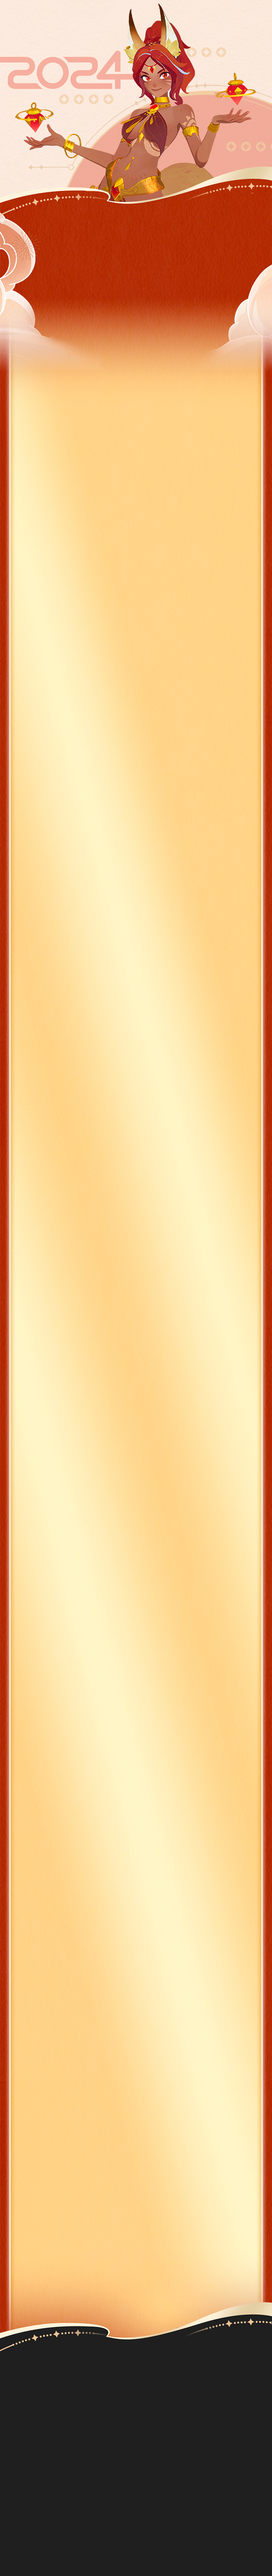
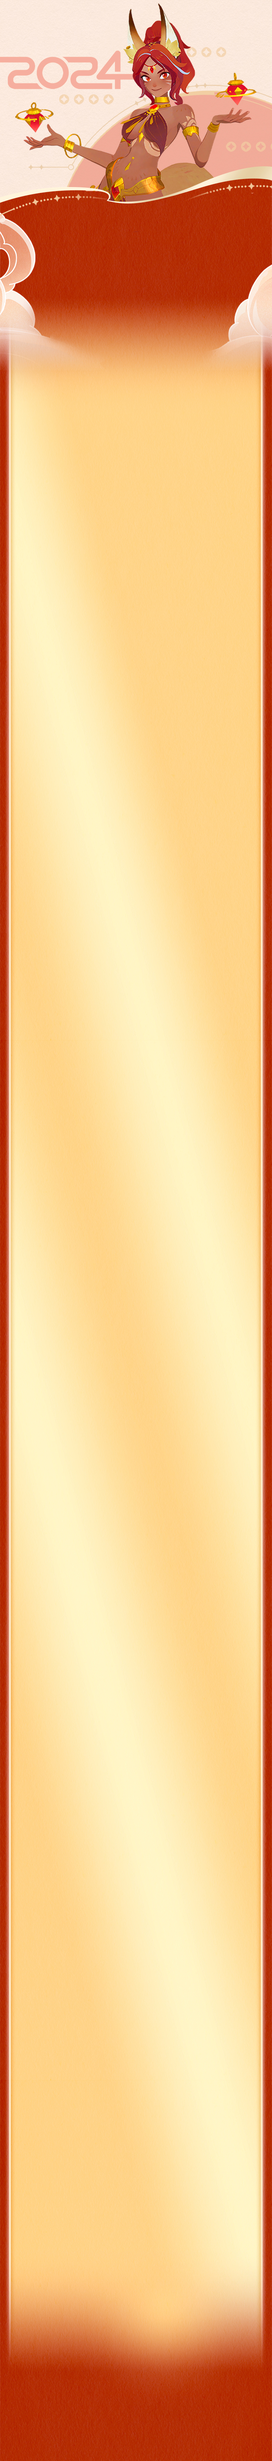
提交

diff --git a/src/views/m/index/index.vue b/src/views/m/index/index.vue
@@ -253,23 +253,23 @@ const inviteNow = () => {
 		</div>
 		
 		<!-- 登录弹窗 -->
-		<van-dialog width="67%" v-model:show="showLogin" :showConfirmButton="false">
+		<van-dialog :width="510" v-model:show="showLogin" :showConfirmButton="false">
 			<LoginDialog @closePop="closeLoginPop"></LoginDialog>
 		</van-dialog>
 		<!-- 扫码弹窗 -->
-		<van-dialog width="67%" v-model:show="showScan" :showConfirmButton="false">
+		<van-dialog width="510" v-model:show="showScan" :showConfirmButton="false">
 			<ScanDialog @closePop="closeScanPop"></ScanDialog>
 		</van-dialog>
 		<!-- 活动温馨提示 -->
-		<van-dialog width="67%" v-model:show="showTip" :showConfirmButton="false">
+		<van-dialog width="510" v-model:show="showTip" :showConfirmButton="false">
 			<TipDialog @closePop="closeTipPop"></TipDialog>
 		</van-dialog>
 		<!-- 活动结束 -->
-		<van-dialog width="67%" v-model:show="showEnd" :showConfirmButton="false">
+		<van-dialog width="510" v-model:show="showEnd" :showConfirmButton="false">
 			<EndDialog @closePop="closeEndPop"></EndDialog>
 		</van-dialog>
 		<!-- 获得红包封面 -->
-		<van-dialog width="67%" v-model:show="showRedEnvelope" :showConfirmButton="false">
+		<van-dialog width="510" v-model:show="showRedEnvelope" :showConfirmButton="false">
 			<RedEnvelopeDialog @closePop="closeRedEnvelopePop"></RedEnvelopeDialog>
 		</van-dialog>
 	</div>

diff --git a/src/components/Footer.vue b/src/components/Footer.vue
@@ -26,7 +26,7 @@ const list = [{
 
 <template>
     <div class="footer">
-        <div class="logo">
+		<div class="logo">
 			<img :src="LilisiLogo" alt="logo">
 		</div>
 		<div class="footer-container">
@@ -57,8 +57,14 @@ const list = [{
 	align-items: center;
 	color: #fff;
 	font-size: .14rem;
+	background: url('@/assets/img/footer-bg.png') no-repeat;
+	background-size: 100% auto;
+	background-position: 0 0;
+	padding-bottom: .2rem;
 	.logo {
 		width: 33%;
+		margin: 1.6rem auto;
+		margin-bottom: 0;
 	}
 	.footer-container {
 		display: flex;

diff --git a/src/views/m/index/index.scss b/src/views/m/index/index.scss
@@ -5,7 +5,7 @@
 }
 .activity {
 	width: 10rem;
-	height: 94rem;
+	height: 93.5rem;
 	background: url('@/assets/img/bg.jpg') no-repeat;
 	background-size: 100% auto;
 	.top {
@@ -302,7 +302,7 @@
 		.rule-box {
 			margin-top: .8rem;
 			width: 100%;
-			height: 21rem;
+			height: 20rem;
 			background: url('@/assets/img/bg_11.png') no-repeat;
 			background-size: 90% auto;
 			background-position: 56% 0;
